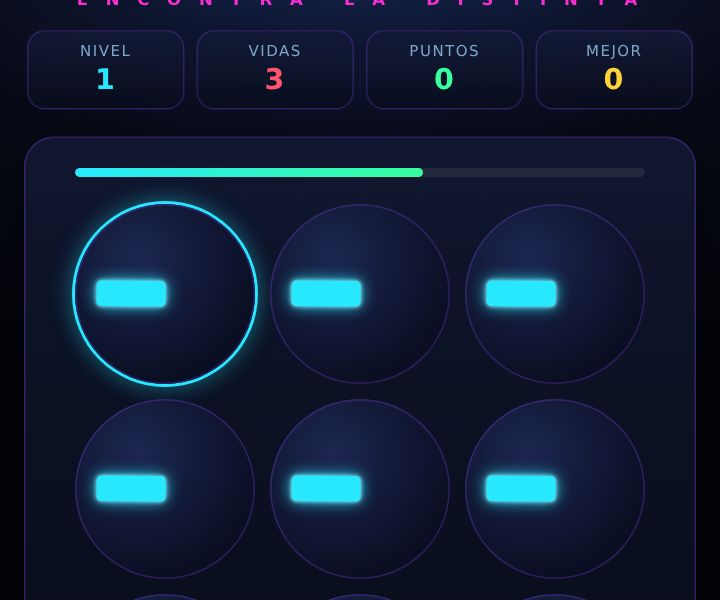
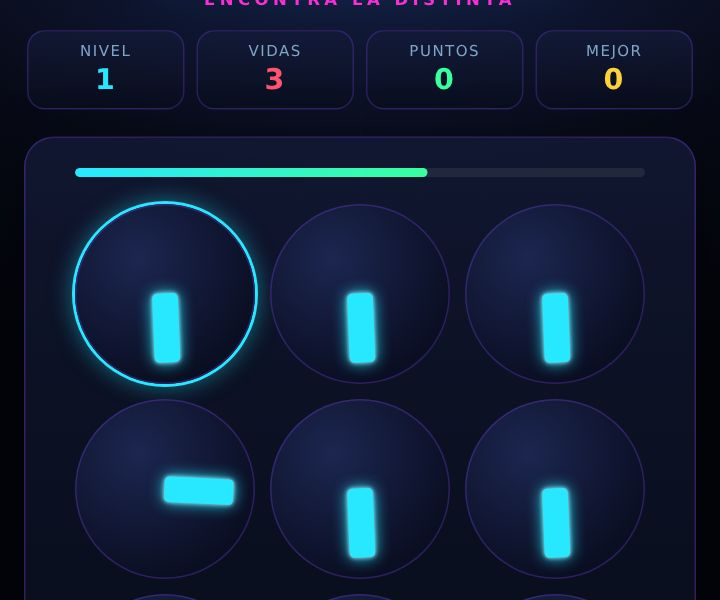
Arreglar wrap del subtítulo y subir el piso de dificultad tardía
- El subtítulo usaba espacios reales entre cada letra para simular
  tracking, lo que permitía cortar a mitad de palabra en viewports
  angostos (390px) y dejaba el juego en 3 líneas dentro de game.html.
  Ahora usa palabras reales + letter-spacing y clamp() de tamaño.
- deltaForLevel mínimo sube de 6° a 11° y timeForLevel mínimo de 2.2s a
  2.8s: desde nivel ~20 la diferencia dejaba de ser "difícil pero justo"
  y pasaba a casi imperceptible en pantallas chicas.

Fixes #21 (subtítulo + balance). El botón de mute sugerido ahí queda
afuera: no hay ese patrón todavía en ningún otro juego del arcade.

Claude-Session: https://claude.ai/code/session_01YPZ6xgMEyAxiLest6XDgs2

diff --git a/el-impostor.html b/el-impostor.html
@@ -36,7 +36,7 @@
     animation:shine 6s linear infinite; filter:drop-shadow(0 0 22px rgba(39,232,255,.35));
   }
   @keyframes shine{to{background-position:300% center;}}
-  .sub{margin-top:8px; color:var(--pink); font-weight:600; letter-spacing:4px; font-size:11px;}
+  .sub{margin-top:8px; color:var(--pink); font-weight:600; letter-spacing:3px; font-size:clamp(10px,3vw,11px); word-break:keep-all; overflow-wrap:normal;}
 
   .hud{display:flex; justify-content:center; align-items:center; gap:8px; margin:4px 2px 18px; flex-wrap:wrap;}
   .hud .box{flex:1; min-width:64px; max-width:110px; text-align:center; background:linear-gradient(180deg, rgba(20,28,58,.7), rgba(10,14,30,.7)); border:1px solid rgba(138,75,255,.25); border-radius:12px; padding:8px 4px; font-size:10px; letter-spacing:1px; color:var(--muted);}
@@ -105,7 +105,7 @@
     <a class="back" href="index.html">◄ Volver al arcade</a>
     <header>
       <div class="logo">EL IMPOSTOR</div>
-      <div class="sub">E N C O N T R Á &nbsp; L A &nbsp; D I S T I N T A</div>
+      <div class="sub">ENCONTRÁ LA DISTINTA</div>
     </header>
 
     <div class="hud">
@@ -190,10 +190,10 @@
     return Math.min(3+Math.floor((lv-1)/3), 8);
   }
   function deltaForLevel(lv){
-    return Math.max(85-(lv-1)*5, 6);
+    return Math.max(85-(lv-1)*5, 11);
   }
   function timeForLevel(lv){
-    return Math.max(6000-(lv-1)*180, 2200);
+    return Math.max(6000-(lv-1)*180, 2800);
   }
 
   function buildLevel(){
